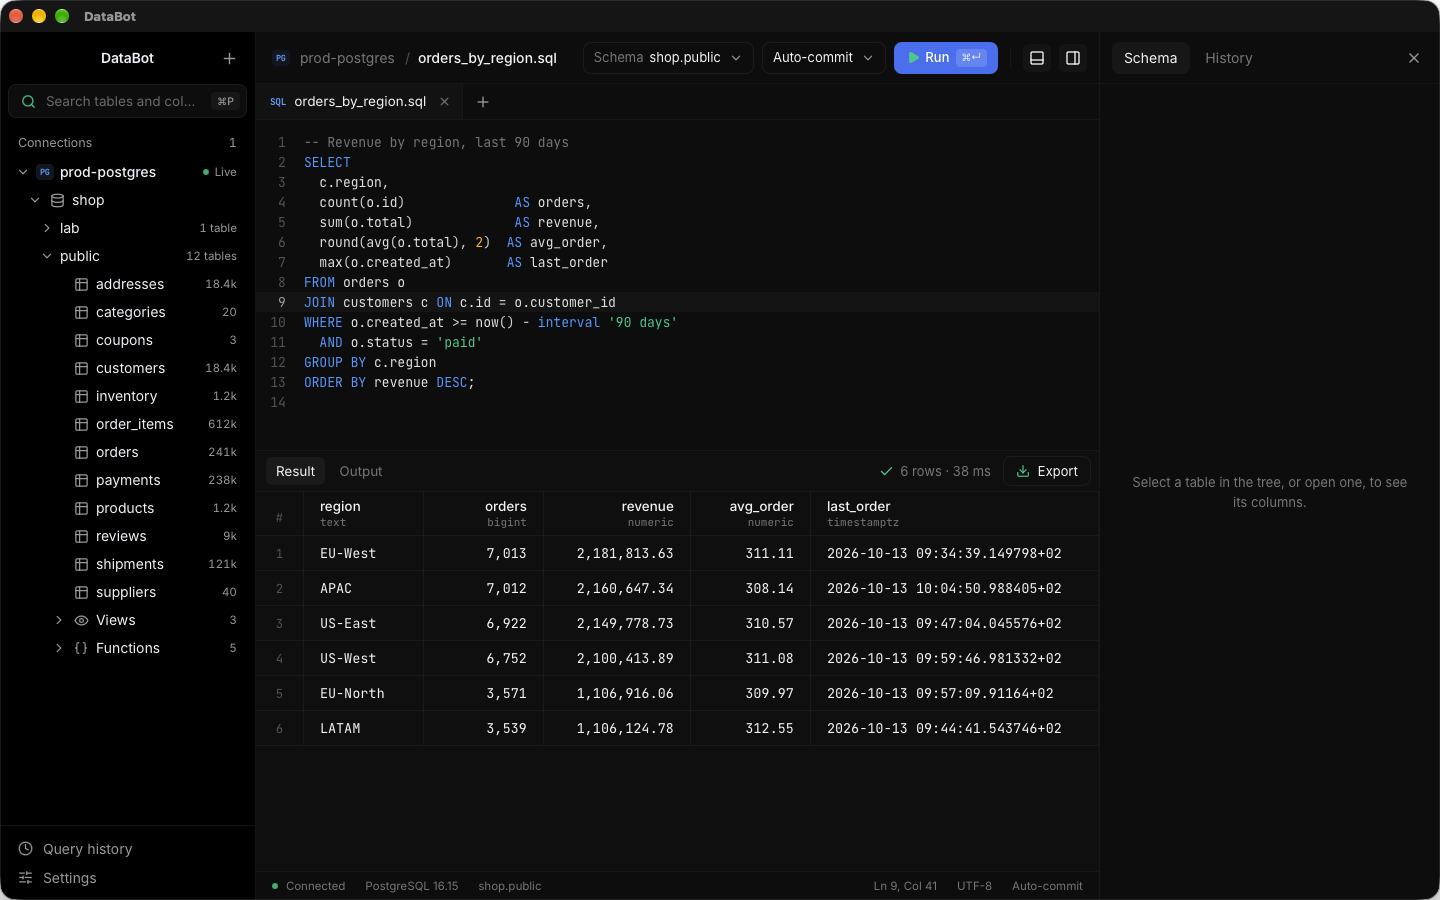
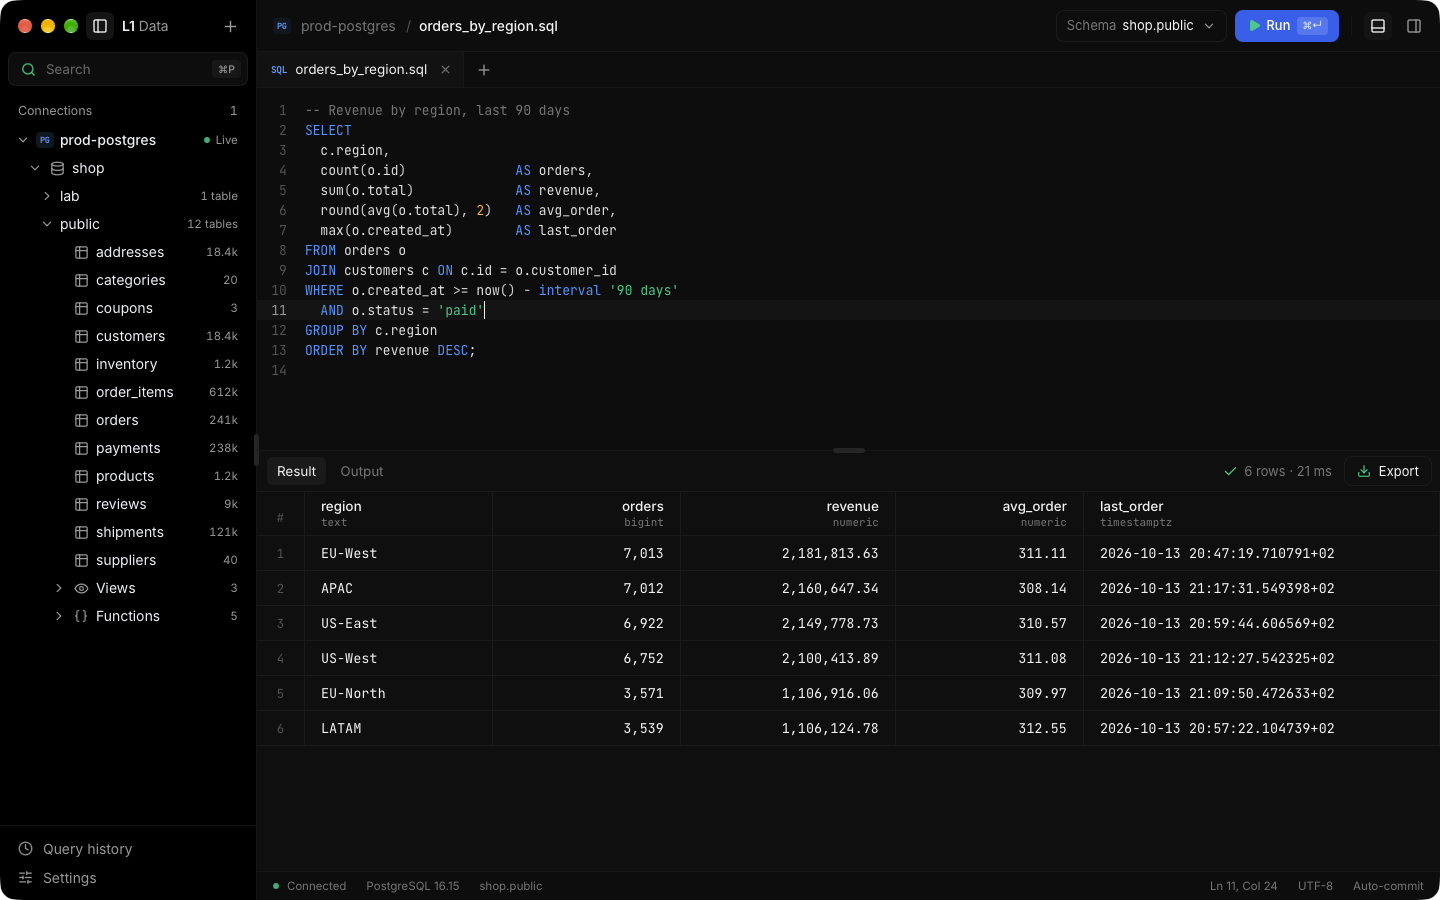
docs(readme): list current features and regenerate the screenshot (#9)
* docs(readme): list current features and regenerate the screenshot

The screenshot still showed the DataBot name and the old window chrome.
`pnpm screenshot` now rebuilds it from the running desktop app, so the
image can follow the UI.

* fix(dev): stop screenshot.sh from driving an existing session

The script now exits when :7077, :5173, or :5434 already has a listener.
It also finds and focuses the app window by the PID it launched, not by
the `l1-data` process name.

diff --git a/README.md b/README.md
@@ -1,8 +1,17 @@
 # L1 Data
 
-L1 Data is a desktop IDE for PostgreSQL, built with Tauri 2, Rust, and React. It has a connection tree, SQL editor tabs, a results grid, an output log, and per-tab transactions. The design is in [docs/architecture.md](docs/architecture.md).
+L1 Data is a desktop IDE for PostgreSQL, built with Tauri 2, Rust, and React. The design is in [docs/architecture.md](docs/architecture.md).
 
 ![L1 Data running the revenue-by-region query against the seeded shop database](docs/images/l1-data.png)
+
+## What it does
+
+- The connection tree lists each server's schemas, tables with row counts, views, and functions. Double-click a table to browse its rows in a tab.
+- SQL tabs complete table and column names from the live catalog. `⌘↵` runs the statement under the cursor or the selection.
+- The results grid streams large results in pages, and **Export** writes them to CSV. The **Output** tab logs notices, command results, and errors.
+- Each tab runs in auto-commit or manual-transaction mode on its own session, so `SET` and temp tables stay with the tab.
+- `⌘P` searches tables and columns across connections. **Query history** opens a past statement in a new SQL tab.
+- The OS credential store holds one master key, and saved passwords are sealed under it. macOS asks for keychain access once per launch.
 
 ## Quickstart
 
@@ -25,6 +34,7 @@ pnpm test                # vitest
 pnpm build               # production frontend bundle
 pnpm self-check          # boots the engine inside the Tauri binary, prints JSON, exits
 pnpm bindings            # rewrites src/ipc/bindings.ts after an IPC type or command changes
+pnpm screenshot          # macOS: rewrites docs/images/l1-data.png from the running app
 ```
 
 ## Layout
@@ -33,3 +43,4 @@ pnpm bindings            # rewrites src/ipc/bindings.ts after an IPC type or com
 - `src-tauri` is the app shell. Each command is a one-line call into the engine.
 - `crates/dev-bridge` serves the same engine over HTTP for browser-driven UI work.
 - `src` is the React frontend. `src/ipc/bindings.ts` is generated; do not edit it.
+- `dev` holds the Docker database, its seed, and the bridge smoke and screenshot scripts.
